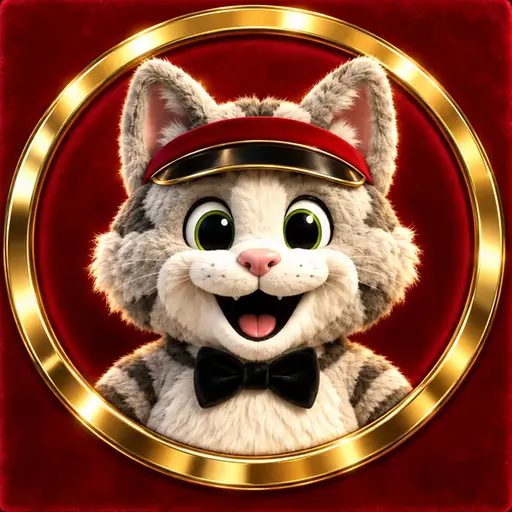
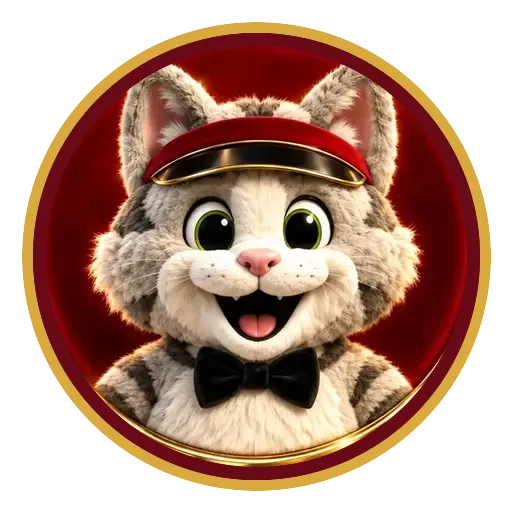
Repair face medallion rendering

diff --git a/tests/e2e/faces.spec.ts b/tests/e2e/faces.spec.ts
@@ -1,0 +1,53 @@
+import { expect, test } from "@playwright/test";
+import { execFileSync } from "node:child_process";
+import { mkdtempSync, readFileSync } from "node:fs";
+import { tmpdir } from "node:os";
+import path from "node:path";
+import { CABINET_ART } from "../../src/scene/cabinetArt";
+import { computeLayout } from "../../src/scene/layout";
+import { SYMBOLS } from "../../src/config/symbols";
+
+const session = { spinsLeft: 3, bonusAvailable: false, state: "idle", best: null, win: null };
+const faceResult = {
+  spinId: "00000000-0000-4000-8000-000000000017", spinNo: 1,
+  reels: ["scott", "keith", "fiona"],
+  strip: [["seven", "cherry", "sweets"], ["scott", "keith", "fiona"], ["neos", "gia", "seven"]],
+  outcome: "retry", ruleId: null, discount: null, couponCode: null, winRef: null, best: null,
+  nearMiss: false, spinsLeft: 2, bonusAvailable: false, isBonus: false, gameOver: false,
+};
+
+test("every reel frame loads and face payline medallions render artwork", async ({ page }) => {
+  await page.emulateMedia({ reducedMotion: "reduce" });
+  await page.route("**/api/session**", (route) => route.fulfill({ status: 200, contentType: "application/json", body: JSON.stringify(session) }));
+  await page.route("**/api/spin", (route) => route.fulfill({ status: 200, contentType: "application/json", body: JSON.stringify(faceResult) }));
+  await page.goto("/");
+  await page.waitForFunction(() => document.documentElement.dataset.ready === "true");
+
+  const manifest = JSON.parse(readFileSync(path.join(process.cwd(), "public/assets/manifest.json"), "utf8")) as { assets: { key: string; file: string }[] };
+  const files = new Map(manifest.assets.map(({ key, file }) => [key, file]));
+  const frameUrls = Object.values(SYMBOLS).flatMap(({ frames }) => Object.values(frames).map((key) => `/assets/${files.get(key)}`));
+  const loaded = await page.evaluate(async (urls) => Promise.all(urls.map((src) => new Promise<boolean>((resolve) => {
+    const image = new Image();
+    image.onload = () => resolve(image.naturalWidth > 1 && image.naturalHeight > 1);
+    image.onerror = () => resolve(false);
+    image.src = src;
+  }))), frameUrls);
+  expect(loaded).not.toContain(false);
+
+  await page.getByRole("button", { name: "Skip" }).click();
+  await page.locator("#spin").click();
+  await expect(page.getByRole("heading", { name: "So close — spin again!" })).toBeVisible();
+  const screenshot = path.join(mkdtempSync(path.join(tmpdir(), "trust-royale-faces-")), "payline.png");
+  await page.screenshot({ path: screenshot });
+  const viewport = page.viewportSize()!;
+  const layout = computeLayout(viewport.width, viewport.height, { top: 0, right: 0, bottom: 0, left: 0 });
+  const scale = layout.machine.scale;
+  const cell = CABINET_ART.reelWindow.width * scale / 3;
+  const size = Math.floor(Math.min(cell * 0.72, CABINET_ART.reelWindow.height * scale * 0.52));
+  const y = Math.floor(layout.machine.y + (CABINET_ART.reelWindow.y + CABINET_ART.reelWindow.height / 2) * scale - size / 2);
+  for (let column = 0; column < 3; column += 1) {
+    const x = Math.floor(layout.machine.x + (CABINET_ART.reelWindow.x + CABINET_ART.reelWindow.width * (column + 0.5) / 3) * scale - size / 2);
+    const whiteRatio = Number(execFileSync("magick", [screenshot, "-crop", `${size}x${size}+${x}+${y}`, "-colorspace", "gray", "-threshold", "92%", "-format", "%[fx:mean]", "info:"]).toString());
+    expect(whiteRatio, `face payline column ${column + 1}`).toBeLessThan(0.5);
+  }
+});

diff --git a/src/scene/reels.ts b/src/scene/reels.ts
@@ -8,7 +8,6 @@ export interface ReelsScene {
   container: Container;
   columns: Container[];
   sprites: Sprite[][];
-  medallionMasks: Graphics[][];
   paylineSprites: Sprite[];
   paylineFlash: Graphics;
   strip: ReelStrip;
@@ -26,15 +25,10 @@ function texture(symbol: SymbolId, frame: "idle" | "half" | "closed" | "win" = "
   return Assets.get<Texture>(key) ?? Texture.EMPTY;
 }
 
-export function usesCircularMask(symbol: SymbolId): boolean { return SYMBOLS[symbol].kind === "face"; }
-
 function setSymbol(scene: ReelsScene, column: number, row: number, symbol: SymbolId, frame: "idle" | "half" | "closed" | "win" = "idle"): void {
   const sprite = scene.sprites[column][row];
-  const medallionMask = scene.medallionMasks[column][row];
   sprite.texture = texture(symbol, frame);
-  sprite.mask = usesCircularMask(symbol) ? medallionMask : null;
-  // Pixi restores a detached mask's renderability; keep mask geometry out of the reel artwork.
-  medallionMask.renderable = false;
+  sprite.mask = null;
 }
 
 function setStrip(scene: ReelsScene, strip: ReelStrip): void {
@@ -55,7 +49,6 @@ export function createReels(initial: ReelStrip = [
   container.addChild(mask, new Graphics().roundRect(0, 0, reelWindow.width, reelWindow.height, 24).fill({ color: 0x1a0b08 }));
   const columns: Container[] = [];
   const sprites: Sprite[][] = [];
-  const medallionMasks: Graphics[][] = [];
   const cellWidth = reelWindow.width / 3;
   const paylineSize = Math.min(cellWidth - 10, reelWindow.height * 0.62);
   for (let column = 0; column < 3; column += 1) {
@@ -87,7 +80,6 @@ export function createReels(initial: ReelStrip = [
     drum.height = reelWindow.height;
     reel.addChild(drum);
     const reelSprites: Sprite[] = [];
-    const reelMasks: Graphics[] = [];
     for (let row = 0; row < 3; row += 1) {
       const sprite = new Sprite(Texture.EMPTY);
       sprite.anchor.set(0.5);
@@ -96,16 +88,11 @@ export function createReels(initial: ReelStrip = [
       sprite.width = paylineSize * rowLayout.scale;
       sprite.height = sprite.width * rowLayout.scaleY;
       sprite.alpha = rowLayout.alpha;
-      const medallionMask = new Graphics()
-        .circle(sprite.x, sprite.y, sprite.width * 0.495)
-        .fill(0xffffff);
-      reel.addChild(sprite, medallionMask);
+      reel.addChild(sprite);
       reelSprites.push(sprite);
-      reelMasks.push(medallionMask);
     }
     columns.push(reel);
     sprites.push(reelSprites);
-    medallionMasks.push(reelMasks);
     container.addChild(reel);
   }
   for (let divider = 1; divider < 3; divider += 1) {
@@ -137,7 +124,7 @@ export function createReels(initial: ReelStrip = [
     .stroke({ color: 0xffe8a3, width: 6, alpha: 0.95 });
   paylineFlash.alpha = 0;
   container.addChild(paylineFlash);
-  const scene = { container, columns, sprites, medallionMasks, paylineSprites: sprites.map((reel) => reel[1]), paylineFlash, strip: initial };
+  const scene = { container, columns, sprites, paylineSprites: sprites.map((reel) => reel[1]), paylineFlash, strip: initial };
   setStrip(scene, initial);
   return scene;
 }

diff --git a/tests/unit/reels.test.ts b/tests/unit/reels.test.ts
@@ -1,5 +1,5 @@
 import { describe, expect, it } from "vitest";
-import { REEL_ROW_LAYOUT, usesCircularMask } from "../../src/scene/reels";
+import { REEL_ROW_LAYOUT } from "../../src/scene/reels";
 
 describe("reel row presentation", () => {
   it("centres the payline and shows only soft partial neighbouring rows", () => {
@@ -12,8 +12,11 @@ describe("reel row presentation", () => {
     expect(REEL_ROW_LAYOUT[2].scaleY).toBeLessThan(REEL_ROW_LAYOUT[2].scale);
   });
 
-  it("masks only face medallions, never filler symbols or the chip", () => {
-    for (const symbol of ["scott", "fiona", "gia", "keith"] as const) expect(usesCircularMask(symbol)).toBe(true);
-    for (const symbol of ["cherry", "seven", "sweets", "neos"] as const) expect(usesCircularMask(symbol)).toBe(false);
+  it("keeps every row inside each curved drum without per-symbol masks", () => {
+    for (const row of REEL_ROW_LAYOUT) {
+      expect(row.y).toBeGreaterThanOrEqual(0);
+      expect(row.y).toBeLessThanOrEqual(1);
+      expect(row.scaleY).toBeLessThanOrEqual(row.scale);
+    }
   });
 });

diff --git a/src/scene/cabinet.ts b/src/scene/cabinet.ts
@@ -56,10 +56,7 @@ function centredSprite(texture: Texture, x: number, y: number, width: number, he
 function maskedMedallion(texture: Texture, x: number, y: number, size: number): Container {
   const holder = new Container();
   holder.position.set(x, y);
-  const sprite = centredSprite(texture, 0, 0, size);
-  const mask = new Graphics().circle(0, 0, size * 0.49).fill(0xffffff);
-  sprite.mask = mask;
-  holder.addChild(sprite, mask);
+  holder.addChild(centredSprite(texture, 0, 0, size));
   return holder;
 }
 
